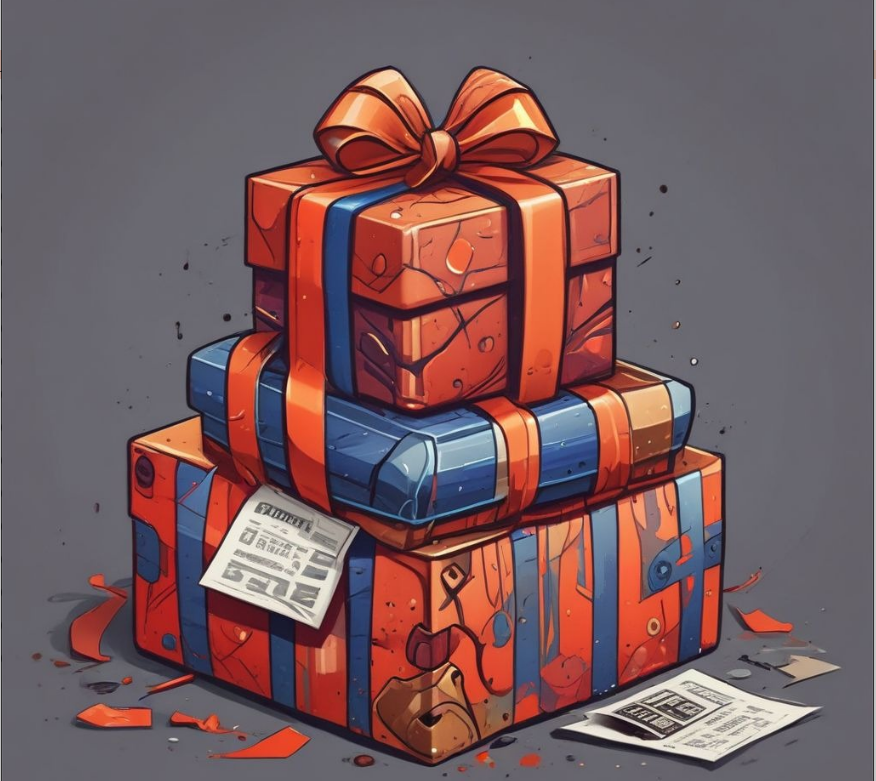
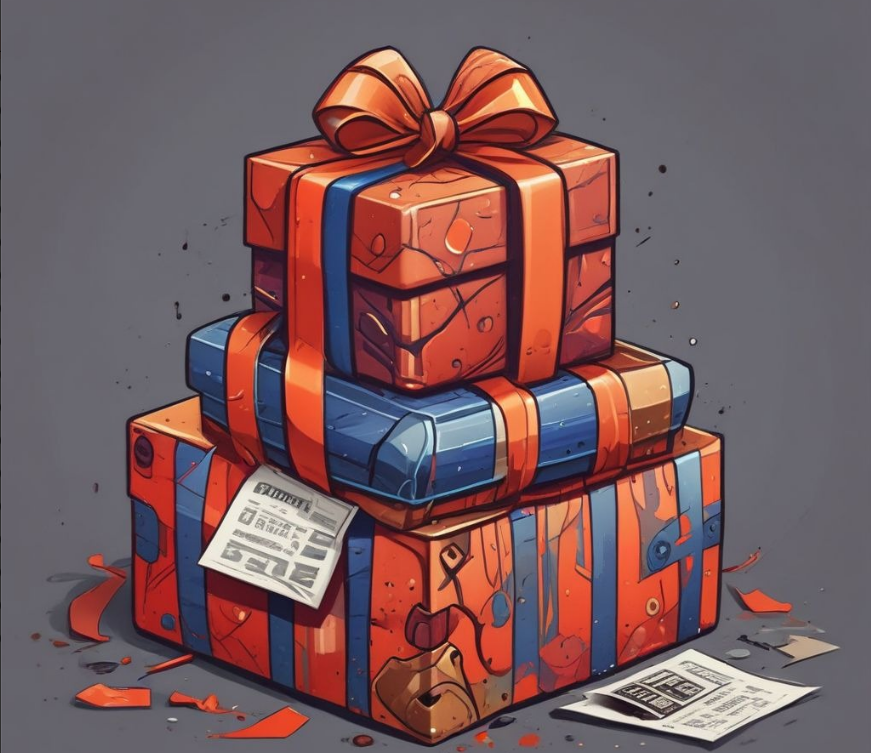
background image preview improvements

diff --git a/giftCard.html b/giftCard.html
@@ -9,7 +9,6 @@
     <link rel="stylesheet" href="css/footer.css">
     <style>
         .giftcard-preview {
-            background-color: #cdfa97;
             display: flex;
             flex-direction: column;
             justify-content: center;
@@ -96,28 +95,15 @@
         span.color-5{
             background-color: #e9b0e6;            
         }
-
-        span.color-f1{
-            background-color: #cdfa97;            
-        }
-        span.color-f2{
-            background-color: #c1ebf8;            
-        }
-        span.color-f3{
-            background-color: #f5ade9;            
-        }
-        span.color-f4{
-            background-color: #b4b0da;            
-        }
-        span.color-f5{
-            background-color: #d67878;            
-        }
         .recipient-name{
             background-color: #0e0000;
             font-size: 20px;
         }
         .position-img {
-            width: 50%;
+            width: 100%;
+        }
+        .preview-bg-img {
+            width: 70%;
         }
         #showGiftCardTitle, #showRecipientInput{            
             top: 10px;
@@ -172,19 +158,43 @@
             <div class="form-group">
                 <label>Ubicación</label>
                 <div class="options">
-                    <label><img class="position-img" src="/images/giftCard/position-1.png" alt="Opcion 1"><input name="position-check" type="radio" value="1"></label>
-                    <label><img class="position-img" src="/images/giftCard/position-2.png" alt="Opcion 2"><input checked name="position-check" type="radio" value="2"></label>
-                    <label><img class="position-img" src="/images/giftCard/position-3.png" alt="Opcion 3"><input name="position-check" type="radio" value="3"></label>
+                    <label>
+                        <img class="position-img" src="/images/giftCard/position-1.png" alt="Opcion 1">
+                        <input name="position-check" type="radio" value="1">
+                    </label>
+                    <label>
+                        <img class="position-img" src="/images/giftCard/position-2.png" alt="Opcion 2">
+                        <input checked name="position-check" type="radio" value="2">
+                    </label>
+                    <label>
+                        <img class="position-img" src="/images/giftCard/position-3.png" alt="Opcion 3">
+                        <input name="position-check" type="radio" value="3">
+                    </label>
                 </div>
             </div>
             <div class="form-group">
                 <label>Fondo</label>
                 <div class="options">
-                    <label><span name="r-span" class="color-f1"></span><input checked type="radio" name="back-color" value="color-f1"></label>
-                    <label><span name="r-span" class="color-f2"></span><input type="radio" name="back-color" value="color-f2"></label>
-                    <label><span name="r-span" class="color-f3"></span><input type="radio" name="back-color" value="color-f3"></label>
-                    <label><span name="r-span" class="color-f4"></span><input type="radio" name="back-color" value="color-f4"></label>
-                    <label><span name="r-span" class="color-f5"></span><input type="radio" name="back-color" value="color-f5"></label>
+                    <label>
+                        <img class="preview-bg-img" src="/images/giftCard/gift-card-bg-1-preview.png" alt="Opcion 3">
+                        <input checked type="radio" name="back-color" value="url('images/giftCard/gift-card-bg-1.png')">
+                    </label>
+                    <label>
+                        <img class="preview-bg-img" src="/images/giftCard/gift-card-bg-2-preview.png" alt="Opcion 3">
+                        <input type="radio" name="back-color" value="url('images/giftCard/gift-card-bg-2.png')">
+                    </label>
+                    <label>
+                        <img class="preview-bg-img" src="/images/giftCard/gift-card-bg-3-preview.png" alt="Opcion 3">
+                        <input type="radio" name="back-color" value="url('images/giftCard/gift-card-bg-3.png')">
+                    </label>
+                    <label>
+                        <img class="preview-bg-img" src="/images/giftCard/gift-card-bg-4-preview.png" alt="Opcion 3">
+                        <input type="radio" name="back-color" value="url('images/giftCard/gift-card-bg-4.png')">
+                    </label>
+                    <label>
+                        <img class="preview-bg-img" src="/images/giftCard/gift-card-bg-5-preview.png" alt="Opcion 3">
+                        <input type="radio" name="back-color" value="url('images/giftCard/gift-card-bg-5.png')">
+                    </label>
                 </div>
             </div>
             <button class="confirm-button">CONFIRMAR</button>
@@ -195,8 +205,7 @@
     <script>
         document.addEventListener('DOMContentLoaded', function() {
             const amountInput = document.getElementById('amount');
-            const showInputPrice = document.getElementById('show-input-price');
-    
+            const showInputPrice = document.getElementById('show-input-price');    
             // Add event listener for radio buttons to shows the amount
             amountInput.addEventListener('input', function() {
                 const inputValue = amountInput.value.trim();
@@ -208,7 +217,6 @@
                     showInputPrice.textContent = '$' + inputValue;
                 }
             });
-
             // Add event listener for radio buttons to shows the recipient name
             const recipientInput = document.getElementById('recipientInput');
             const showRecipientInput = document.getElementById('showRecipientInput');
@@ -222,17 +230,12 @@
                     showRecipientInput.textContent = recipInputValue;
                 }
             });
-
             // Add event listener for radio buttons to change background color
-            const backColorRadio = document.querySelectorAll('input[name="back-color"]');
-            const previewSection = document.querySelector('.giftcard-preview');
-            
-            backColorRadio.forEach(radio => {
+            const bkImageSelection = document.querySelectorAll('input[name="back-color"]');
+            const previewSection = document.querySelector('.giftcard-preview');            
+            bkImageSelection.forEach(radio => {
                 radio.addEventListener('change', function() {
-                    // Get the background color from the span element
-                    const selectedColor = window.getComputedStyle(document.querySelector('span[class='+ radio.value +']')).backgroundColor;
-                    // Set the background color of the preview section
-                    previewSection.style.backgroundColor = selectedColor;
+                    previewSection.style.backgroundImage = this.value;
                 });
             });
             const fontColorRadios = document.querySelectorAll('input[name="font-color"]');

diff --git a/loginForm.html b/loginForm.html
@@ -14,22 +14,22 @@
 		<section class="login">
 			<div class="login-header">Iniciar Sesion</div>
 
-			<form class="login-form" action="">
+			<form class="login-form"  action="/old-school.html" method="get">
 					<label class="login-form-label" for="username"><b>Usuario:</b></label><br/>
 					<input class="login-form-input" type="text" placeholder="Ingrese nombre de usuario" name="username" required>
 					<br/>
 					<label for="password"><b>Contraseña:</b></label><br/>
 					<input class="login-form-input" type="password" placeholder="Ingrese contraseña" name="password" required>
 					<br/>
-					<input type="submit" value="Iniciar Sesion" class="submit-button">
+					<input type="submit" value="Iniciar Sesion" class="submit-button"/>
 					<br/>
 					<label>
-						<input type="checkbox" name="remember"> Mantener mi sesión activa
+						<a type="checkbox" name="remember"> Mantener mi sesión activa</a>
 					</label>
 			</form>
 
 			<div class="login-footer">
-				<span>¿No tenes cuenta? <a href="./newaccountform.html">Registrate</a> </span>
+				<span>¿No tenes cuenta? <a href="./newAccountForm.html">Registrate</a> </span>
 			</div>
 		</section>
 	</main>

diff --git a/commons/header.html b/commons/header.html
@@ -1,7 +1,9 @@
 <header>
     <div class="navbar">
         <div class="logo">
-            <img src="images/old-school.jpg" alt="Logo" id="img-logo">
+            <a href="old-school.html">
+                <img src="images/old-school.jpg" alt="Logo" id="img-logo">
+            </a>
         </div>
         <div class="search-bar">
             <input type="text" placeholder="Buscar...">

diff --git a/css/main.css b/css/main.css
@@ -1,6 +1,8 @@
 main {
-    display: flex;            
-    padding: 1em;            
-    justify-content: center;
-    background-color: aliceblue;
+    display: flex;
+    justify-content: center;  
+    min-height: 80vh;
+    background: linear-gradient(180deg, #004080, #333333); /* Gradiente de azul a gris */
+    padding: 20px;
+    color: white;
 }

diff --git a/css/header.css b/css/header.css
@@ -59,8 +59,6 @@
     background-color: #56619b; 
     color: white;
     padding: 10px;
-    border-bottom-left-radius: 15px;
-    border-bottom-right-radius: 15px;
 }
 
 .menu a {

diff --git a/css/footer.css b/css/footer.css
@@ -7,8 +7,6 @@
     text-decoration: none;
     font-weight: bold;
     padding: 2px 6px;
-    border-top-left-radius: 15px;
-    border-top-right-radius: 15px;
 }
 
 .footer div {
